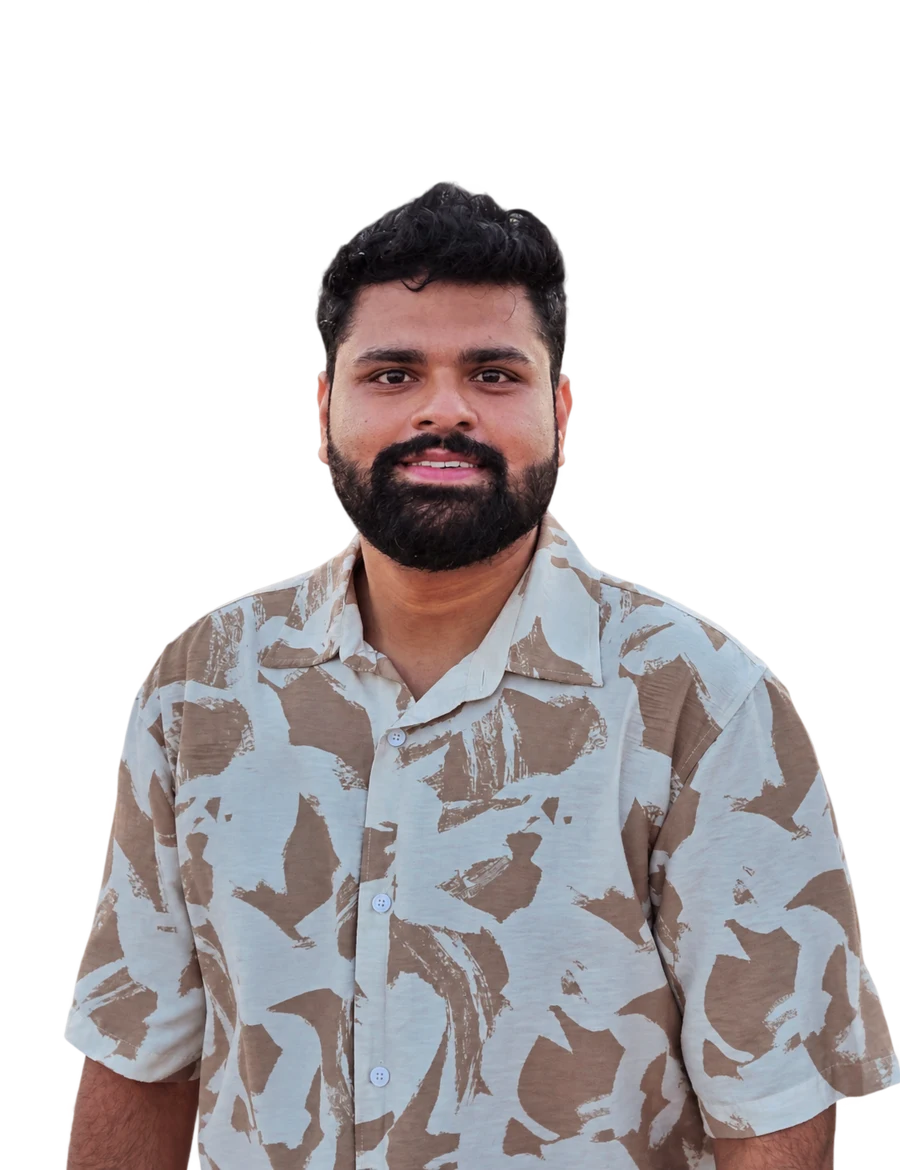
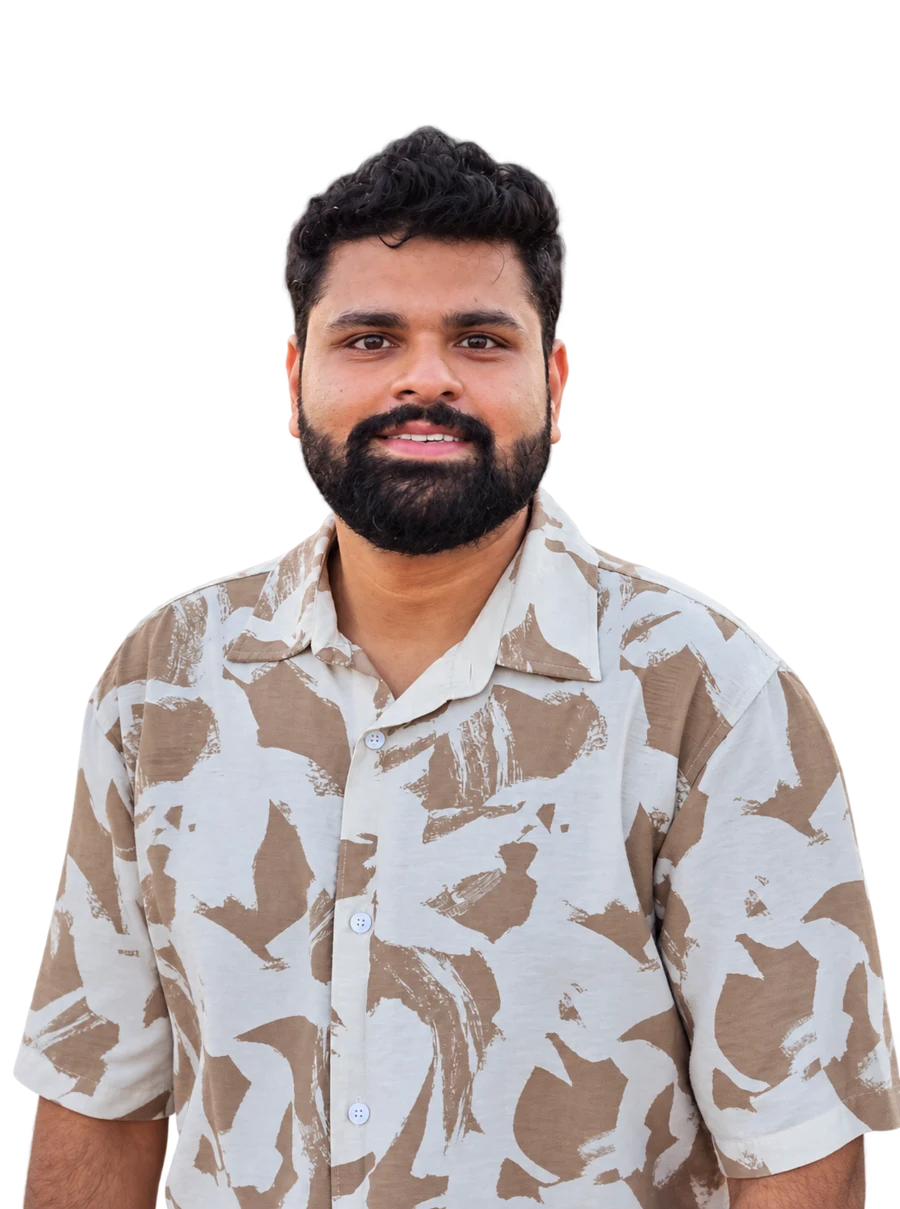
fix: use the 900x1209 portrait cut requested by the user
The pasted base64 was byte-identical (131504 bytes, VP8X canvas 900x1209) to
the webp generated from the earlier copy of final-portfolio-image.png, before
that source was re-saved with a tighter bottom crop. Identified by decoding the
RIFF/VP8X header rather than transcribing ~190KB of base64, which would have
risked silent corruption.

Reverts the plan and spec back to 900x1209 for the hero img intrinsic size.

diff --git a/docs/superpowers/plans/2026-08-13-portfolio-redesign.md b/docs/superpowers/plans/2026-08-13-portfolio-redesign.md
@@ -153,7 +153,7 @@ Create `src/pages/index.astro`:
 
 - [ ] **Step 6: Add the portrait asset**
 
-Copy the processed portrait into `public/`. It is a trimmed 900×1170 WebP, roughly 110KB:
+Copy the processed portrait into `public/`. It is a trimmed 900×1209 WebP, roughly 130KB:
 
 ```bash
 mkdir -p public
@@ -162,7 +162,7 @@ cwebp -q 88 -alpha_q 95 /tmp/portrait.png -o public/portrait.webp
 identify public/portrait.webp
 ```
 
-Expected: `900x1170`. If `~/Downloads/final-portfolio-image.png` is gone, extract the
+Expected: `900x1209`. If `~/Downloads/final-portfolio-image.png` is gone, extract the
 inlined base64 from the reference mockup instead:
 
 ```bash
@@ -1565,7 +1565,7 @@ const portrait = `${import.meta.env.BASE_URL.replace(/\/$/, '')}/portrait.webp`;
         </h1>
       </div>
       <div class="portrait">
-        <img src={portrait} alt={`${profile.name}, smiling, in a patterned short-sleeve shirt`} width="900" height="1170" />
+        <img src={portrait} alt={`${profile.name}, smiling, in a patterned short-sleeve shirt`} width="900" height="1209" />
       </div>
     </div>
   </div>

diff --git a/docs/superpowers/specs/2026-08-13-portfolio-redesign-design.md b/docs/superpowers/specs/2026-08-13-portfolio-redesign-design.md
@@ -321,7 +321,7 @@ Astro 5, zero client framework, static output.
 ├─ astro.config.mjs
 ├─ package.json
 ├─ public/
-│  ├─ portrait.webp            # 900×1170, trimmed, ~110KB
+│  ├─ portrait.webp            # 900×1209, trimmed, ~130KB
 │  ├─ og.png
 │  └─ favicon.svg
 ├─ src/
